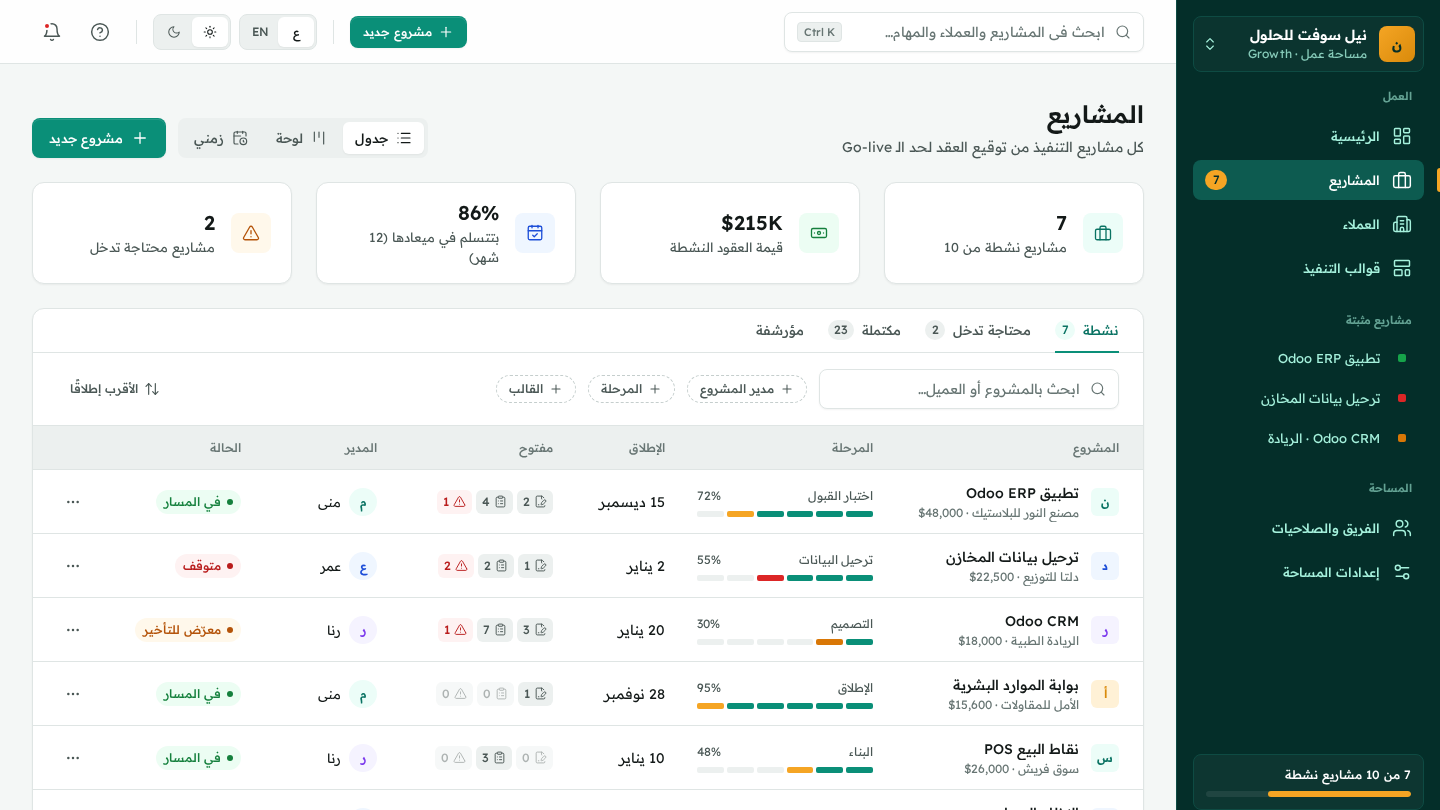
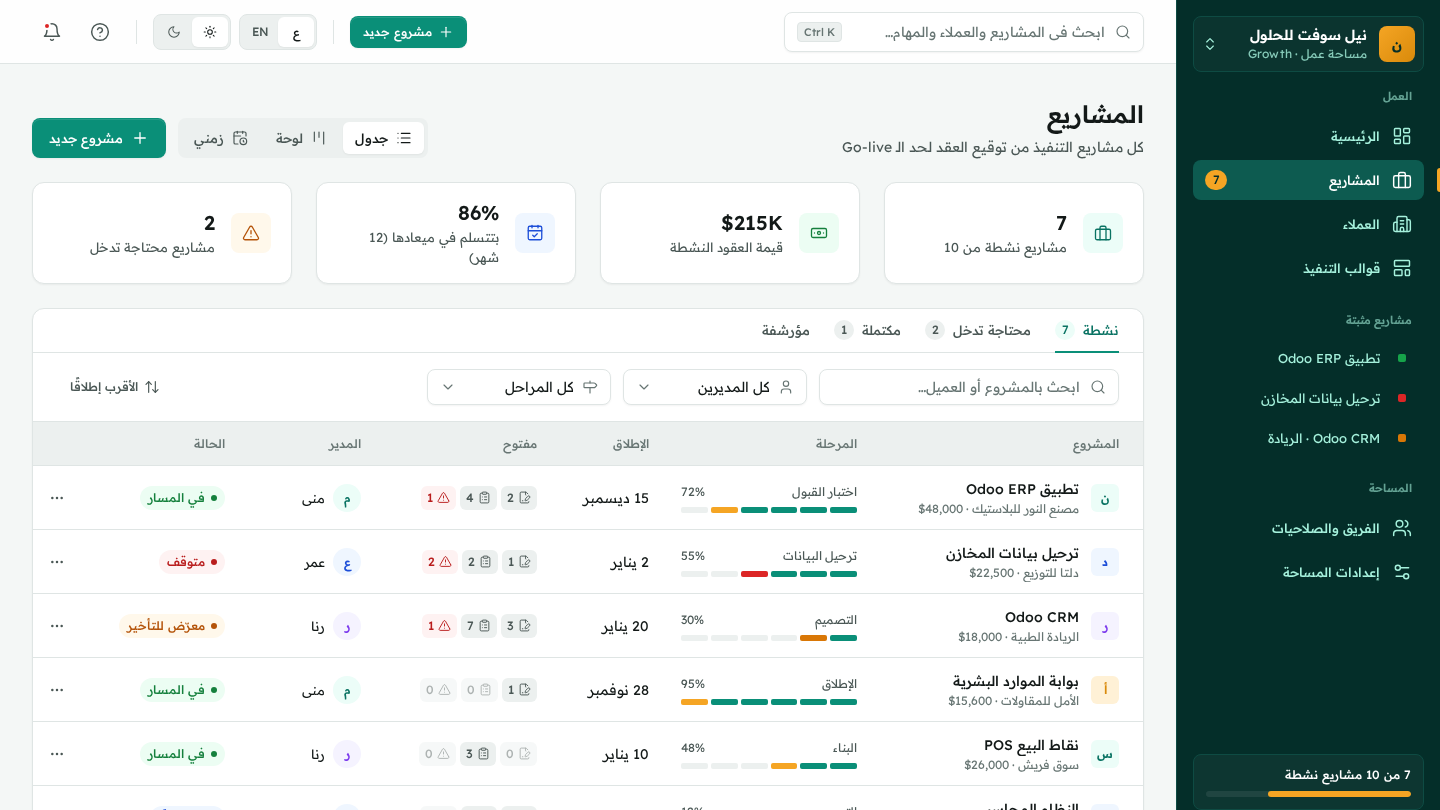
Workspace projects: table/board/timeline views, status tabs, filters, new/edit/archive/delete

diff --git a/ws-projects.html b/ws-projects.html
@@ -22,6 +22,26 @@
 .cnt.z{opacity:.45}
 .cnt.hot{background:var(--gl-danger-bg);color:var(--gl-danger-fg)}
 .tbl td.co a:hover .nm{color:var(--gl-brand-text)}
+
+.toolbar .sel{width:184px}.toolbar .sel .control{width:100%}
+.board{display:grid;grid-template-columns:repeat(6,minmax(0,1fr));gap:var(--gl-space-3);padding:var(--gl-space-5) var(--gl-space-6)}
+.bcol{display:flex;flex-direction:column;gap:var(--gl-space-3);background:var(--gl-bg-subtle);border-radius:var(--gl-radius-lg);padding:var(--gl-space-3);min-height:360px}
+.bcol h4{display:flex;align-items:center;justify-content:space-between;font:var(--gl-type-label);padding:var(--gl-space-1) var(--gl-space-1) var(--gl-space-2)}
+.bcard{background:var(--gl-bg-surface);border:1px solid var(--gl-border-default);border-radius:var(--gl-radius-md);padding:var(--gl-space-3);display:flex;flex-direction:column;gap:var(--gl-space-2);box-shadow:var(--gl-shadow-xs);cursor:grab}
+.bcard .t{font:var(--gl-type-label);overflow:hidden;text-overflow:ellipsis;white-space:nowrap}
+.bcard .f{display:flex;align-items:center;justify-content:space-between;gap:var(--gl-space-2);flex-wrap:wrap;min-width:0}
+.bcard{min-width:0}.bcard .f .tag{max-width:100%;overflow:hidden}
+.bcard.add{border-style:dashed;box-shadow:none;background:transparent;color:var(--gl-text-muted);align-items:center;flex-direction:row;justify-content:center;cursor:pointer;font:var(--gl-type-label-sm)}
+.gantt{padding:var(--gl-space-5) var(--gl-space-6)}
+.g-head,.g-row{display:grid;grid-template-columns:260px minmax(0,1fr);align-items:center}
+.g-head .mo{display:grid;grid-template-columns:repeat(6,1fr);font:var(--gl-type-caption);color:var(--gl-text-muted)}
+.g-head .mo span{padding:0 var(--gl-space-2);border-inline-start:1px solid var(--gl-border-default)}
+.g-row{height:52px;border-block-start:1px solid var(--gl-border-default)}
+.g-track{position:relative;height:100%;background:repeating-linear-gradient(to right,transparent 0 calc(100%/6 - 1px),var(--gl-border-default) calc(100%/6 - 1px) calc(100%/6))}
+[dir="rtl"] .g-track{background:repeating-linear-gradient(to left,transparent 0 calc(100%/6 - 1px),var(--gl-border-default) calc(100%/6 - 1px) calc(100%/6))}
+.g-bar{position:absolute;top:14px;height:24px;border-radius:var(--gl-radius-full);display:flex;align-items:center;padding-inline:var(--gl-space-3);font:var(--gl-type-label-sm);color:#fff;white-space:nowrap;overflow:hidden}
+.g-bar i{position:absolute;inset-block:0;inset-inline-start:0;background:rgb(255 255 255 / .22);border-radius:inherit}
+.g-today{position:absolute;inset-block:0;width:2px;background:var(--gl-accent-default);z-index:1}
 </style>
 </head>
 <body>
@@ -30,19 +50,51 @@
 <script src="assets/charts.js"></script>
 <script src="assets/data.js"></script>
 <script src="assets/app.js"></script>
+<script src="assets/interact.js"></script>
 <script>
+const prjRow = (L, ui, icon, p) => { const T = GL_TEAM, H = GL_HEALTH, PH = GL_PHASES; const cnt = (ic, n, title, hot) => `<span class="cnt ${n ? (hot ? 'hot' : '') : 'z'}" title="${title}">${icon(ic)}${n}</span>`;
+  const cat = p[11] === 'done' ? 'done' : 'active' + (p[11] === 'risk' || p[11] === 'blocked' ? ' attn' : '');
+  return `<tr data-row data-cat="${cat}" data-pm="${p[12]}" data-ph="${p[7]}">
+          <td class="co"><a class="cell-co" href="ws-project.html">${ui.av(L(p[4], p[5]), p[6], 'sm')}<div><div class="nm" data-f="name">${L(p[0], p[1])}</div><div class="cell-sub">${L(p[2], p[3])} · <span class="ltr">${p[14]}</span></div></div></a></td>
+          <td><div class="ph-l"><span>${p[7] > 5 ? L('مكتمل', 'Done') : L(PH[p[7]][0], PH[p[7]][1])}</span><span class="num">${p[8]}%</span></div><div class="seg6 ${p[11]}">${PH.map((x, i) => `<i class="${i < p[7] ? 'd' : i === p[7] ? 'c' : ''}"></i>`).join('')}</div></td>
+          <td class="sec">${L(p[9], p[10])}</td>
+          <td><span class="row gap-1">${cnt('file-pen-line', p[13][0], L('موافقات', 'Approvals'))}${cnt('clipboard-list', p[13][1], L('متطلبات', 'Requirements'))}${cnt('alert-triangle', p[13][2], 'Blockers', 1)}</span></td>
+          <td><span class="row gap-2">${ui.av(L(T[p[12]][2], T[p[12]][3]), T[p[12]][4])}<span class="t-sm ell">${L(T[p[12]][0], T[p[12]][1]).split(' ')[0]}</span></span></td>
+          <td data-st>${ui.tag(H[p[11]][0], L(H[p[11]][1], H[p[11]][2]))}</td>
+          <td class="right">${ui.menuBtn('prj')}</td></tr>`; };
+const prjForm = (L, { ui }) => `
+  ${ui.field(L('اسم المشروع', 'Project name'), ui.input('name', { req: 1, ph: L('مثال: تطبيق Odoo ERP', 'e.g. Odoo ERP rollout') }), { req: 1 })}
+  <div class="form-grid">
+    ${ui.field(L('العميل', 'Client'), ui.select('client', GL_PROJECTS.map(p => [p[2] + '|' + p[3] + '|' + p[4] + '|' + p[5], GL.L(p[2], p[3])]), { ph: L('اختار عميل', 'Choose a client'), req: 1, icon: 'building-2' }), { req: 1, hint: `<a class="link" href="ws-clients.html">${L('+ عميل جديد', '+ New client')}</a>` })}
+    ${ui.field(L('القالب', 'Playbook'), ui.select('tpl', [L('Odoo ERP — تصنيع', 'Odoo ERP — Manufacturing'), L('Odoo CRM', 'Odoo CRM'), L('ترحيل بيانات', 'Data migration'), L('من غير قالب', 'Blank')], { icon: 'layout-template' }))}
+    ${ui.field(L('مدير المشروع', 'Project manager'), ui.select('pm', Object.entries(GL_TEAM).filter(([k, m]) => m[5] !== 'consultant').map(([k, m]) => [k, GL.L(m[0], m[1])]), { val: 'ma', icon: 'user' }), { req: 1 })}
+    ${ui.field(L('قيمة العقد', 'Contract value'), ui.input('val', { ltr: 1, icon: 'banknote', ph: '$25,000' }))}
+    ${ui.field(L('تاريخ البدء', 'Start date'), ui.input('start', { type: 'date', req: 1, ltr: 1, val: '2026-12-01' }), { req: 1 })}
+    ${ui.field(L('موعد الإطلاق المستهدف', 'Target go-live'), ui.input('golive', { type: 'date', req: 1, ltr: 1 }), { req: 1 })}
+  </div>
+  <div class="field"><label>${L('الموديولات', 'Modules')}</label><div class="row gap-2 wrap" data-multi>${['Sales', 'CRM', 'Inventory', 'Accounting', 'Manufacturing', 'HR', 'POS'].map((m, i) => `<span class="opt ${i < 3 ? 'on' : ''}" style="padding:6px 12px"><span class="box ${i < 3 ? 'on' : ''}">${i < 3 ? GL.icon('check') : ''}</span>${m}</span>`).join('')}</div></div>
+  <div class="set-row" style="padding:0"><div class="grow"><div class="t-strong">${L('فعّل بوابة العميل', 'Enable client portal')}</div><div class="t-sm sec">${L('هنبعت دعوة لجهة الاتصال الأساسية', 'We’ll invite the primary contact')}</div></div><span class="switch on" data-static></span></div>`;
 GL.mount({
   shell: 'ws', nav: 'ws-projects',
+  modals: {
+    new: { kind: 'drawer', size: 'lg', icon: 'briefcase', title: L => L('مشروع جديد', 'New project'), sub: L => L('7 من 10 مشاريع نشطة في خطتك', '7 of 10 active projects on your plan'), body: prjForm, submit: L => L('إنشاء المشروع', 'Create project'), submitIcon: 'plus',
+      add: { table: 'prjTbl', row: (v, L) => { const c = (v.client || '|||').split('|'); return prjRow(L, GL.ui, GL.icon, [v.name, v.name, c[0], c[1], c[2], c[3], 'av-teal', 0, 0, v.golive, v.golive, 'kick', v.pm || 'ma', [0, 0, 0], v.val || '—']); } },
+      toast: (L, v) => [L('اتعمل المشروع', 'Project created'), L('اتضافت مراحل القالب والمهام', 'Playbook phases and tasks were added')] },
+    edit: { kind: 'drawer', size: 'lg', icon: 'pencil', title: L => L('تعديل المشروع', 'Edit project'), sub: (L, c) => c.name, body: prjForm, toast: L => [L('اتحفظ المشروع', 'Project saved'), ''] }
+  },
+  menus: { prj: [{ icon: 'eye', ar: 'فتح المشروع', en: 'Open project', href: 'ws-project.html' }, { icon: 'pencil', ar: 'تعديل', en: 'Edit', open: 'edit' }, { icon: 'copy', ar: 'حفظ كقالب', en: 'Save as playbook', toast: (L, n) => `success|${L('اتحفظ كقالب', 'Saved as playbook')}|${n}` }, { icon: 'link', ar: 'نسخ رابط البوابة', en: 'Copy portal link', toast: L => `success|${L('اتنسخ الرابط', 'Link copied')}|portal.golive.example/…` }, '-', { icon: 'archive', ar: 'أرشفة', en: 'Archive', confirm: 'arch' }, { icon: 'trash-2', ar: 'حذف', en: 'Delete', del: 1, danger: 1 }] },
+  confirms: { arch: { icon: 'archive', title: (L, c) => L(`أرشفة «${c.name}»؟`, `Archive “${c.name}”?`), text: L => L('بوابة العميل هتتقفل وهيتحرر مكان في حد المشاريع.', 'The client portal closes and a project slot is freed.'), btn: L => L('أرشفة', 'Archive'), run: (L, c, row) => { row.dataset.cat = 'archived'; GLI.filterTable('prjTbl'); }, toast: (L, c) => [L('اتأرشف المشروع', 'Project archived'), c.name] } },
   title: L => L('المشاريع', 'Projects'),
   render: (L, { icon, ui }) => {
     const T = GL_TEAM, H = GL_HEALTH, PH = GL_PHASES;
     const P = GL_PROJECTS.concat([['تطبيق Odoo للمبيعات', 'Odoo Sales rollout', 'وادي للأغذية', 'Wadi Foods', 'و', 'WF', 'av-amber', 6, 100, '2 أكتوبر', 'Oct 2', 'done', 'rf', [0, 0, 0], '$19,800']]);
-    const cnt = (ic, n, title, hot) => `<span class="cnt ${n ? (hot ? 'hot' : '') : 'z'}" title="${title}">${icon(ic)}${n}</span>`;
+    const months = [L('ديسمبر', 'Dec'), L('يناير', 'Jan'), L('فبراير', 'Feb'), L('مارس', 'Mar'), L('أبريل', 'Apr'), L('مايو', 'May')];
+    const span = [[0, 0.45], [-0.3, 0.95], [-0.6, 1.6], [-0.5, 0], [-0.2, 1.3], [0.1, 2.6], [0.4, 3.1], [-2, 0]];
     return `
     <div class="page-head">
       <div><h1 class="t-h1">${L('المشاريع', 'Projects')}</h1><p class="sub">${L('كل مشاريع التنفيذ من توقيع العقد لحد الـ Go-live', 'Every implementation from signed contract to go-live')}</p></div>
-      <div class="actions"><div class="pills"><span class="pill active">${icon('list', 'sm')}${L('جدول', 'Table')}</span><span class="pill">${icon('kanban', 'sm')}${L('لوحة', 'Board')}</span><span class="pill">${icon('calendar-clock', 'sm')}${L('زمني', 'Timeline')}</span></div>
-        <button class="btn btn-primary">${icon('plus', 'sm')}${L('مشروع جديد', 'New project')}</button></div>
+      <div class="actions"><div class="pills" data-tabs="view"><span class="pill active" data-tab="table">${icon('list', 'sm')}${L('جدول', 'Table')}</span><span class="pill" data-tab="board">${icon('kanban', 'sm')}${L('لوحة', 'Board')}</span><span class="pill" data-tab="timeline">${icon('calendar-clock', 'sm')}${L('زمني', 'Timeline')}</span></div>
+        <button class="btn btn-primary" data-open="new">${icon('plus', 'sm')}${L('مشروع جديد', 'New project')}</button></div>
     </div>
     <section class="stat-strip">
       ${ui.mini('briefcase', '', '7', L('مشاريع نشطة من 10', 'Active of 10 allowed'))}
@@ -50,24 +102,28 @@ GL.mount({
       ${ui.mini('calendar-check', ui.tone.info, '86%', L('بتتسلم في ميعادها (12 شهر)', 'On-time go-lives (12 mo)'))}
       ${ui.mini('alert-triangle', ui.tone.warning, '2', L('مشاريع محتاجة تدخل', 'Projects need attention'))}
     </section>
-    <section class="card table-wrap">
-      <div class="tabs" style="padding-inline:var(--gl-space-6)"><span class="tab active">${L('نشطة', 'Active')} <span class="badge">7</span></span><span class="tab">${L('محتاجة تدخل', 'Needs attention')} <span class="badge">2</span></span><span class="tab">${L('مكتملة', 'Completed')} <span class="badge">23</span></span><span class="tab">${L('مؤرشفة', 'Archived')}</span></div>
-      <div class="toolbar"><label class="control search">${icon('search', 'sm')}<input placeholder="${L('ابحث بالمشروع أو العميل…', 'Search project or client…')}"></label>
-        <span class="chip">${icon('plus')}${L('مدير المشروع', 'Project manager')}</span><span class="chip">${icon('plus')}${L('المرحلة', 'Phase')}</span><span class="chip">${icon('plus')}${L('القالب', 'Playbook')}</span>
-        <div class="end"><button class="btn btn-ghost btn-sm">${icon('sort')}${L('الأقرب إطلاقًا', 'Go-live soonest')}</button></div></div>
-      <table class="tbl">
-        <colgroup><col><col style="width:208px"><col style="width:112px"><col style="width:176px"><col style="width:136px"><col style="width:152px"><col style="width:72px"></colgroup>
+    <section class="card table-wrap" data-pane-group="view" data-pane="table">
+      <div class="tabs" style="padding-inline:var(--gl-space-6)" data-tabs="pst" data-filter-table="prjTbl"><span class="tab active" data-tab="active">${L('نشطة', 'Active')} <span class="badge">7</span></span><span class="tab" data-tab="attn">${L('محتاجة تدخل', 'Needs attention')} <span class="badge">2</span></span><span class="tab" data-tab="done">${L('مكتملة', 'Completed')} <span class="badge">1</span></span><span class="tab" data-tab="archived">${L('مؤرشفة', 'Archived')}</span></div>
+      <div class="toolbar"><label class="control search sm">${icon('search', 'sm')}<input data-search="prjTbl" placeholder="${L('ابحث بالمشروع أو العميل…', 'Search project or client…')}"></label>
+        <span class="sel sm">${ui.select('pm', Object.entries(T).filter(([k, m]) => m[5] === 'pm').map(([k, m]) => [k, L(m[0], m[1])]), { ph: L('كل المديرين', 'All managers'), filter: 'prjTbl', key: 'pm', cls: 'sm', icon: 'user' })}</span>
+        <span class="sel sm">${ui.select('ph', PH.map((x, i) => [String(i), L(x[0], x[1])]), { ph: L('كل المراحل', 'All phases'), filter: 'prjTbl', key: 'ph', cls: 'sm', icon: 'milestone' })}</span>
+        <div class="end"><button class="btn btn-ghost btn-sm" data-toast="info|${L('الترتيب: الأقرب إطلاقًا', 'Sorted by go-live')}|">${icon('sort')}${L('الأقرب إطلاقًا', 'Go-live soonest')}</button></div></div>
+      <table class="tbl" id="prjTbl">
+        <colgroup><col><col style="width:208px"><col style="width:112px"><col style="width:176px"><col style="width:136px"><col style="width:152px"><col style="width:56px"></colgroup>
         <thead><tr><th>${L('المشروع', 'Project')}</th><th>${L('المرحلة', 'Phase')}</th><th>${L('الإطلاق', 'Go-live')}</th><th>${L('مفتوح', 'Open items')}</th><th>${L('المدير', 'PM')}</th><th>${L('الحالة', 'Health')}</th><th></th></tr></thead>
-        <tbody>${P.map(p => `<tr>
-          <td class="co"><a class="cell-co" href="ws-project.html">${ui.av(L(p[4], p[5]), p[6], 'sm')}<div><div class="nm">${L(p[0], p[1])}</div><div class="cell-sub">${L(p[2], p[3])} · <span class="ltr">${p[14]}</span></div></div></a></td>
-          <td><div class="ph-l"><span>${p[7] > 5 ? L('مكتمل', 'Done') : L(PH[p[7]][0], PH[p[7]][1])}</span><span class="num">${p[8]}%</span></div><div class="seg6 ${p[11]}">${PH.map((x, i) => `<i class="${i < p[7] ? 'd' : i === p[7] ? 'c' : ''}"></i>`).join('')}</div></td>
-          <td class="sec">${L(p[9], p[10])}</td>
-          <td><span class="row gap-1">${cnt('file-pen-line', p[13][0], L('موافقات', 'Approvals'))}${cnt('clipboard-list', p[13][1], L('متطلبات', 'Requirements'))}${cnt('alert-triangle', p[13][2], 'Blockers', 1)}</span></td>
-          <td><span class="row gap-2">${ui.av(L(T[p[12]][2], T[p[12]][3]), T[p[12]][4])}<span class="t-sm ell">${L(T[p[12]][0], T[p[12]][1]).split(' ')[0]}</span></span></td>
-          <td>${ui.tag(H[p[11]][0], L(H[p[11]][1], H[p[11]][2]))}</td>
-          <td class="right"><button class="icon-btn sm">${icon('more')}</button></td></tr>`).join('')}</tbody>
+        <tbody>${P.map(p => prjRow(L, ui, icon, p)).join('')}</tbody>
       </table>
       <div class="card-foot"><span class="t-sm muted">${L('7 نشطة · 1 مكتمل حديثًا', '7 active · 1 recently completed')}</span><span class="row gap-4 t-cap muted"><span class="row gap-1">${icon('file-pen-line', 'xs')}${L('موافقات', 'Approvals')}</span><span class="row gap-1">${icon('clipboard-list', 'xs')}${L('متطلبات من العميل', 'Client requirements')}</span><span class="row gap-1">${icon('alert-triangle', 'xs')}Blockers</span></span></div>
+    </section>
+    <section class="card" data-pane-group="view" data-pane="board" hidden>
+      <div class="card-head bordered"><div><h3 class="t-h3">${L('لوحة المراحل', 'Phase board')}</h3><p class="sub">${L('اسحب المشروع لمرحلة تانية (نموذج)', 'Drag a project to another phase (prototype)')}</p></div></div>
+      <div class="board">${PH.map((ph, i) => { const items = P.filter(p => Math.min(p[7], 5) === i && p[11] !== 'done'); return `<div class="bcol"><h4><span>${L(ph[0], ph[1])}</span><span class="t-cap muted num">${items.length}</span></h4>${items.map(p => `<a class="bcard" href="ws-project.html"><div class="t">${L(p[0], p[1])}</div><div class="t-cap muted ell">${L(p[2], p[3])}</div><div class="bar thin ${H[p[11]][0] === 'danger' ? 'danger' : H[p[11]][0] === 'warning' ? 'warn' : ''}"><i style="width:${p[8]}%"></i></div><div class="f">${ui.tag(H[p[11]][0], L(H[p[11]][1], H[p[11]][2]))}${ui.av(L(T[p[12]][2], T[p[12]][3]), T[p[12]][4] + ' sm', 'round')}</div></a>`).join('')}${i === 0 ? `<div class="bcard add" data-open="new">${icon('plus', 'sm')}${L('مشروع', 'Project')}</div>` : ''}</div>`; }).join('')}</div>
+    </section>
+    <section class="card" data-pane-group="view" data-pane="timeline" hidden>
+      <div class="card-head bordered"><div><h3 class="t-h3">${L('الخط الزمني', 'Timeline')}</h3><p class="sub">${L('من النهارده لحد مايو 2027', 'Today through May 2027')}</p></div><div class="row gap-4"><span class="legend"><i style="background:var(--gl-brand-600)"></i>${L('في المسار', 'On track')}</span><span class="legend"><i style="background:var(--gl-warning-solid)"></i>${L('معرّض للتأخير', 'At risk')}</span><span class="legend"><i style="background:var(--gl-danger-solid)"></i>${L('متوقف', 'Blocked')}</span></div></div>
+      <div class="gantt"><div class="g-head"><span></span><div class="mo">${months.map(m => `<span>${m}</span>`).join('')}</div></div>
+        ${GL_PROJECTS.map((p, k) => { const a = Math.max(0, span[k][0]), b = Math.min(6, span[k][1] + 0.6), col = { ok: 'var(--gl-brand-600)', risk: 'var(--gl-warning-solid)', blocked: 'var(--gl-danger-solid)', kick: 'var(--gl-info-solid)' }[p[11]]; return `<div class="g-row"><div class="row gap-2" style="min-width:0">${ui.av(L(p[4], p[5]), p[6], 'sm')}<div style="min-width:0"><div class="t-strong t-sm ell">${L(p[0], p[1])}</div><div class="t-cap muted">${L('الإطلاق', 'Go-live')} ${L(p[9], p[10])}</div></div></div><div class="g-track"><span class="g-today" style="inset-inline-start:7%"></span><span class="g-bar" style="inset-inline-start:${a / 6 * 100}%;width:${(b - a) / 6 * 100}%;background:${col}"><i style="width:${p[8]}%"></i><span style="position:relative">${p[8]}%</span></span></div></div>`; }).join('')}
+      </div>
     </section>`;
   }
 });
